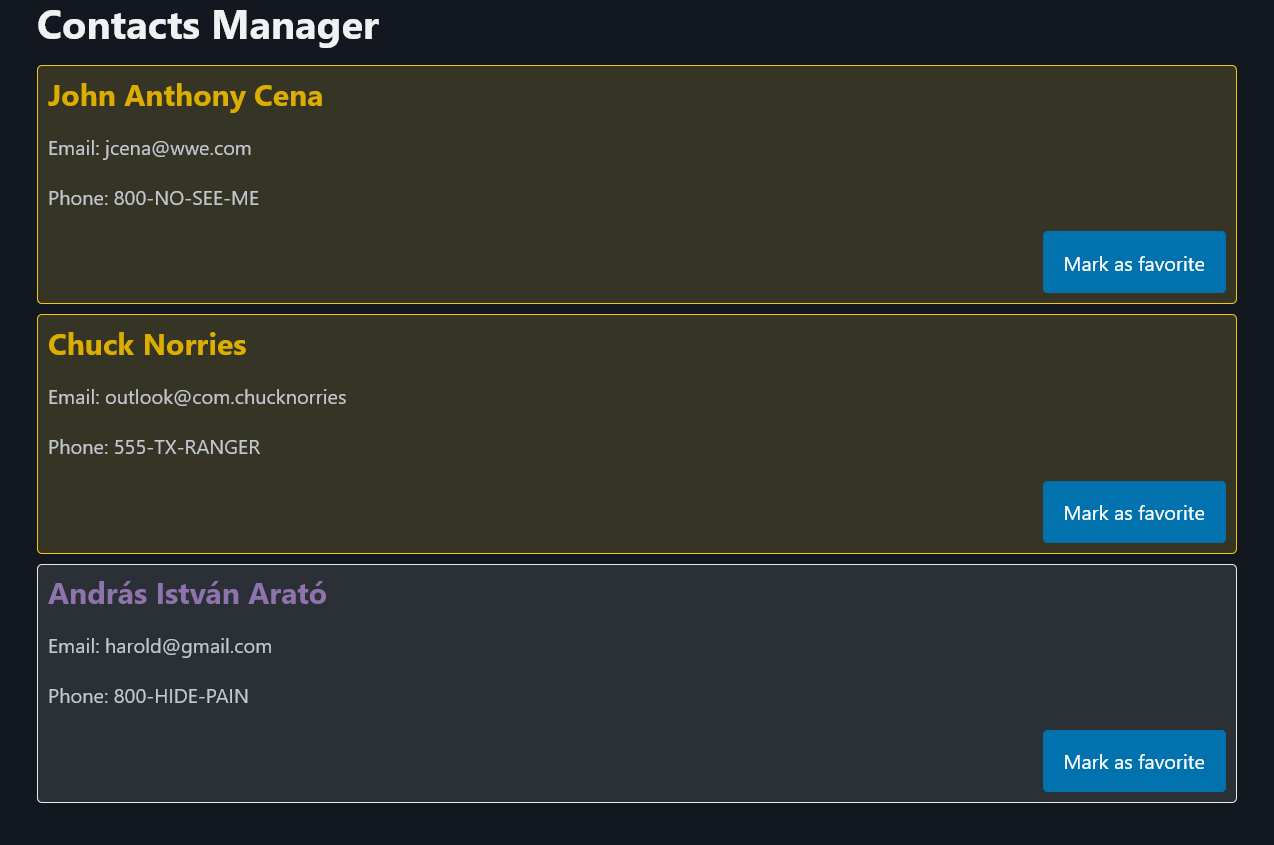
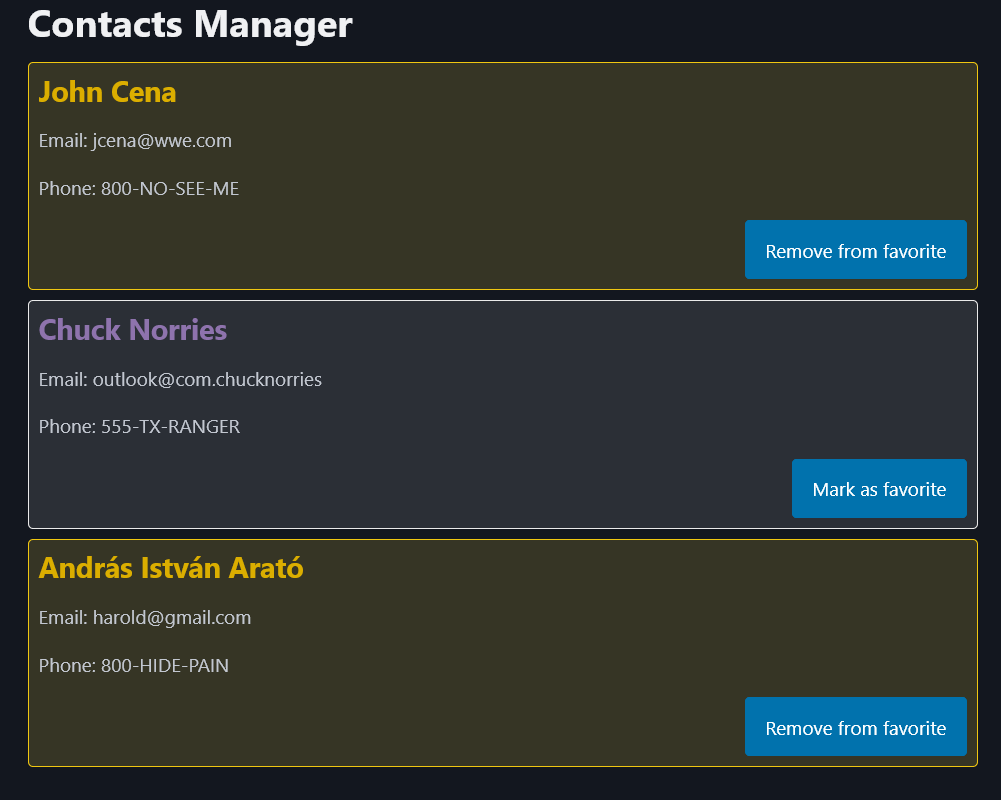
update to show dynamic mark/remove favorite button label

diff --git a/src/ContactCard.jsx b/src/ContactCard.jsx
@@ -40,7 +40,7 @@ const ContactCard = (props) => {
       {/* create this wrapping div so we can align the button to the right */}
       <div style={{ display: 'flex', justifyContent: 'end' }}>
         {/* link the onClick with the handleFavorite method */}
-        <button onClick={handleFavorite}>Mark as favorite</button> {/* We add a button */}
+        <button onClick={handleFavorite}>{isFavorite ? 'Remove from' : 'Mark as'} favorite</button>  {/* We add a button */}
       </div>
     </div>
   );

diff --git a/docs/SESSION3.md b/docs/SESSION3.md
@@ -220,7 +220,7 @@ const ContactCard = (props) => {
       {/* create this wrapping div so we can align the button to the right */}
       <div style={{ display: 'flex', justifyContent: 'end' }}>
         {/* link the onClick with the handleFavorite method */}
-        <button onClick={handleFavorite}>Mark as favorite</button> {/* We add a button */}
+        <button onClick={handleFavorite}>{isFavorite ? 'Remove from' : 'Mark as'} favorite</button>  {/* We add a button */}
       </div>
     </div>
   );
@@ -287,7 +287,7 @@ const ContactCard = (props) => {
       {/* create this wrapping div so we can align the button to the right */}
       <div style={{ display: 'flex', justifyContent: 'end' }}>
         {/* link the onClick with the handleFavorite method */}
-        <button onClick={handleFavorite}>Mark as favorite</button> {/* We add a button */}
+        <button onClick={handleFavorite}>{isFavorite ? 'Remove from' : 'Mark as'} favorite</button>  {/* We add a button */}
       </div>
     </div>
   );
